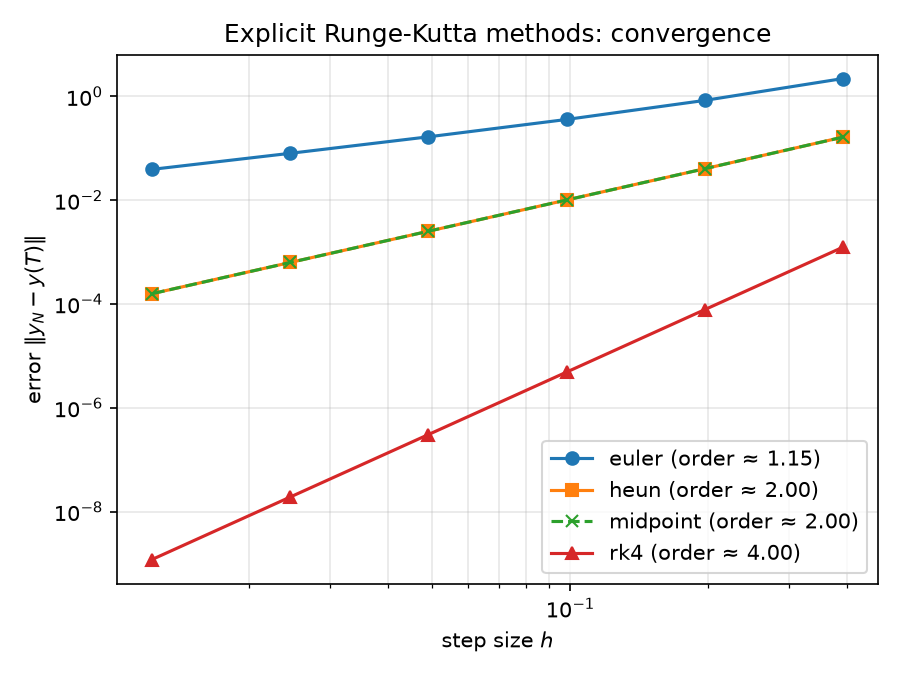
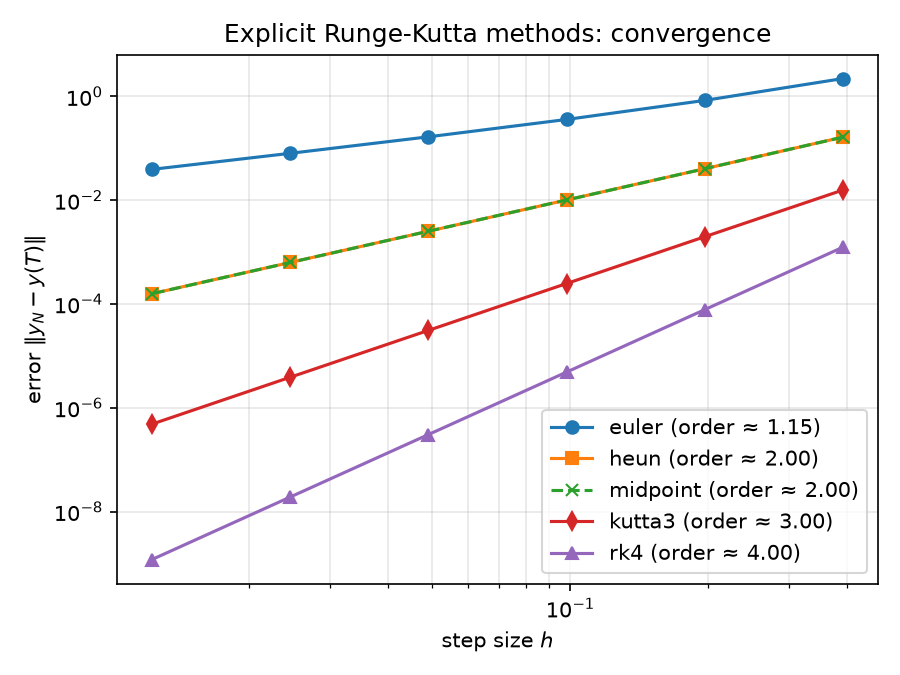
Add Kutta's third-order method

diff --git a/examples/convergence_rk.py b/examples/convergence_rk.py
@@ -29,7 +29,7 @@ def main():
 
     # Distinct styles: on a linear problem Heun and midpoint coincide exactly,
     # so the dashed line keeps both visible.
-    styles = {"euler": "o-", "heun": "s-", "midpoint": "x--", "rk4": "^-"}
+    styles = {"euler": "o-", "heun": "s-", "midpoint": "x--", "kutta3": "d-", "rk4": "^-"}
 
     fig, ax = plt.subplots(figsize=(6, 4.5))
     for method, p in ORDERS.items():
@@ -40,7 +40,7 @@ def main():
         errors = np.array(errors)
         p_est = estimate_order(h, errors)
         print(f"{method:>9}: expected order {p}, estimated {p_est:.2f}")
-        ax.loglog(h, errors, styles[method], label=f"{method} (order ≈ {p_est:.2f})")
+        ax.loglog(h, errors, styles.get(method, "o-"),label=f"{method} (order ≈ {p_est:.2f})")
 
     ax.set_xlabel("step size $h$")
     ax.set_ylabel(r"error $\|y_N - y(T)\|$")

diff --git a/numerical_methods/ode.py b/numerical_methods/ode.py
@@ -21,6 +21,13 @@ TABLEAUS = {
         [0.0, 1.0],
         [0.0, 0.5],
     ),
+    "kutta3": (
+        [[0.0, 0.0, 0.0],
+         [0.5, 0.0, 0.0],
+         [-1.0, 2.0, 0.0]],
+        [1 / 6, 2 / 3, 1 / 6],
+        [0.0, 0.5, 1.0],
+    ),
     "rk4": (
         [[0.0, 0.0, 0.0, 0.0],
          [0.5, 0.0, 0.0, 0.0],
@@ -32,7 +39,7 @@ TABLEAUS = {
 }
 
 # Theoretical order of each method.
-ORDERS = {"euler": 1, "heun": 2, "midpoint": 2, "rk4": 4}
+ORDERS = {"euler": 1, "heun": 2, "midpoint": 2, "kutta3": 3, "rk4": 4}
 
 
 def explicit_rk(f, t_span, y0, n_steps, A, b, c):

diff --git a/README.md b/README.md
@@ -23,6 +23,7 @@ The function `explicit_rk` accepts **any** explicit Butcher tableau; the followi
 | Euler    | 1      | 1     |
 | Heun     | 2      | 2     |
 | Midpoint | 2      | 2     |
+| Kutta 3  | 3      | 3     |
 | RK4      | 4      | 4     |
 
 ### Convergence study
